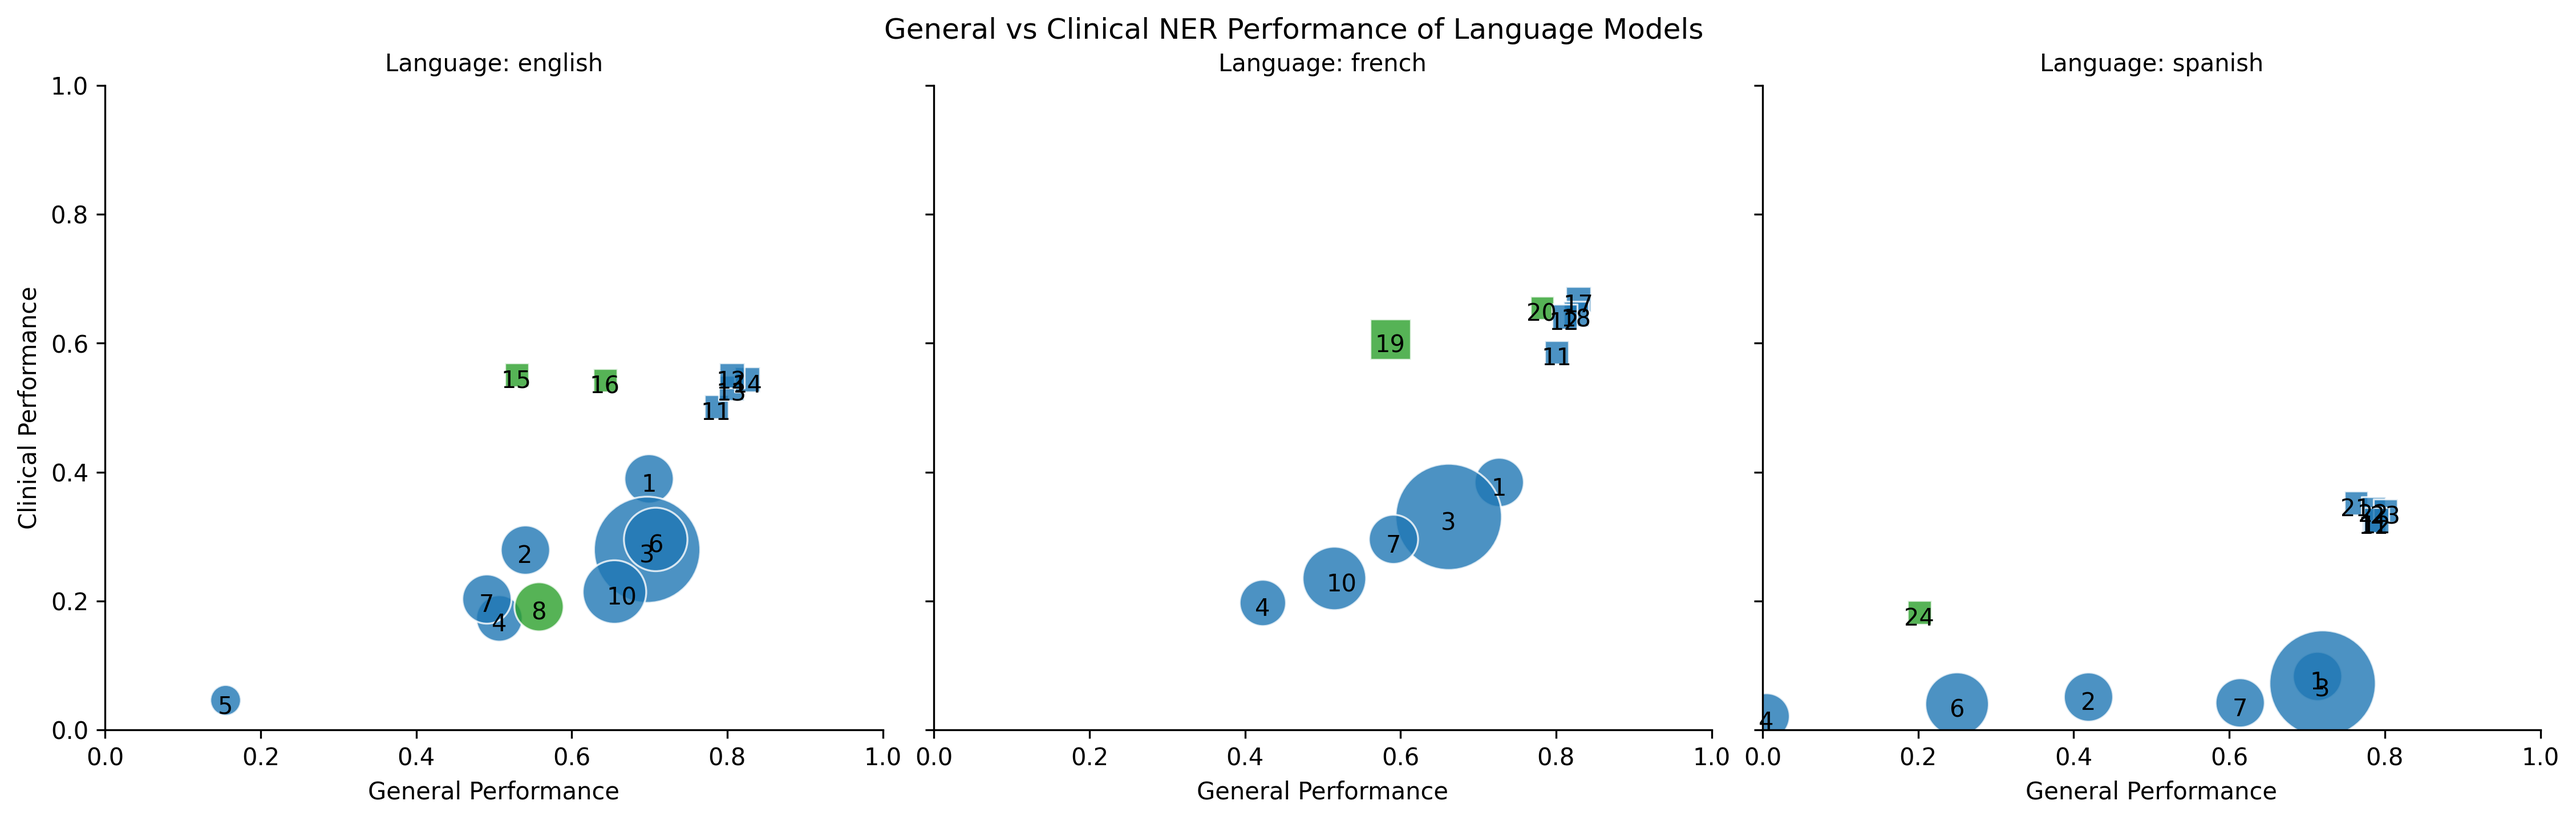
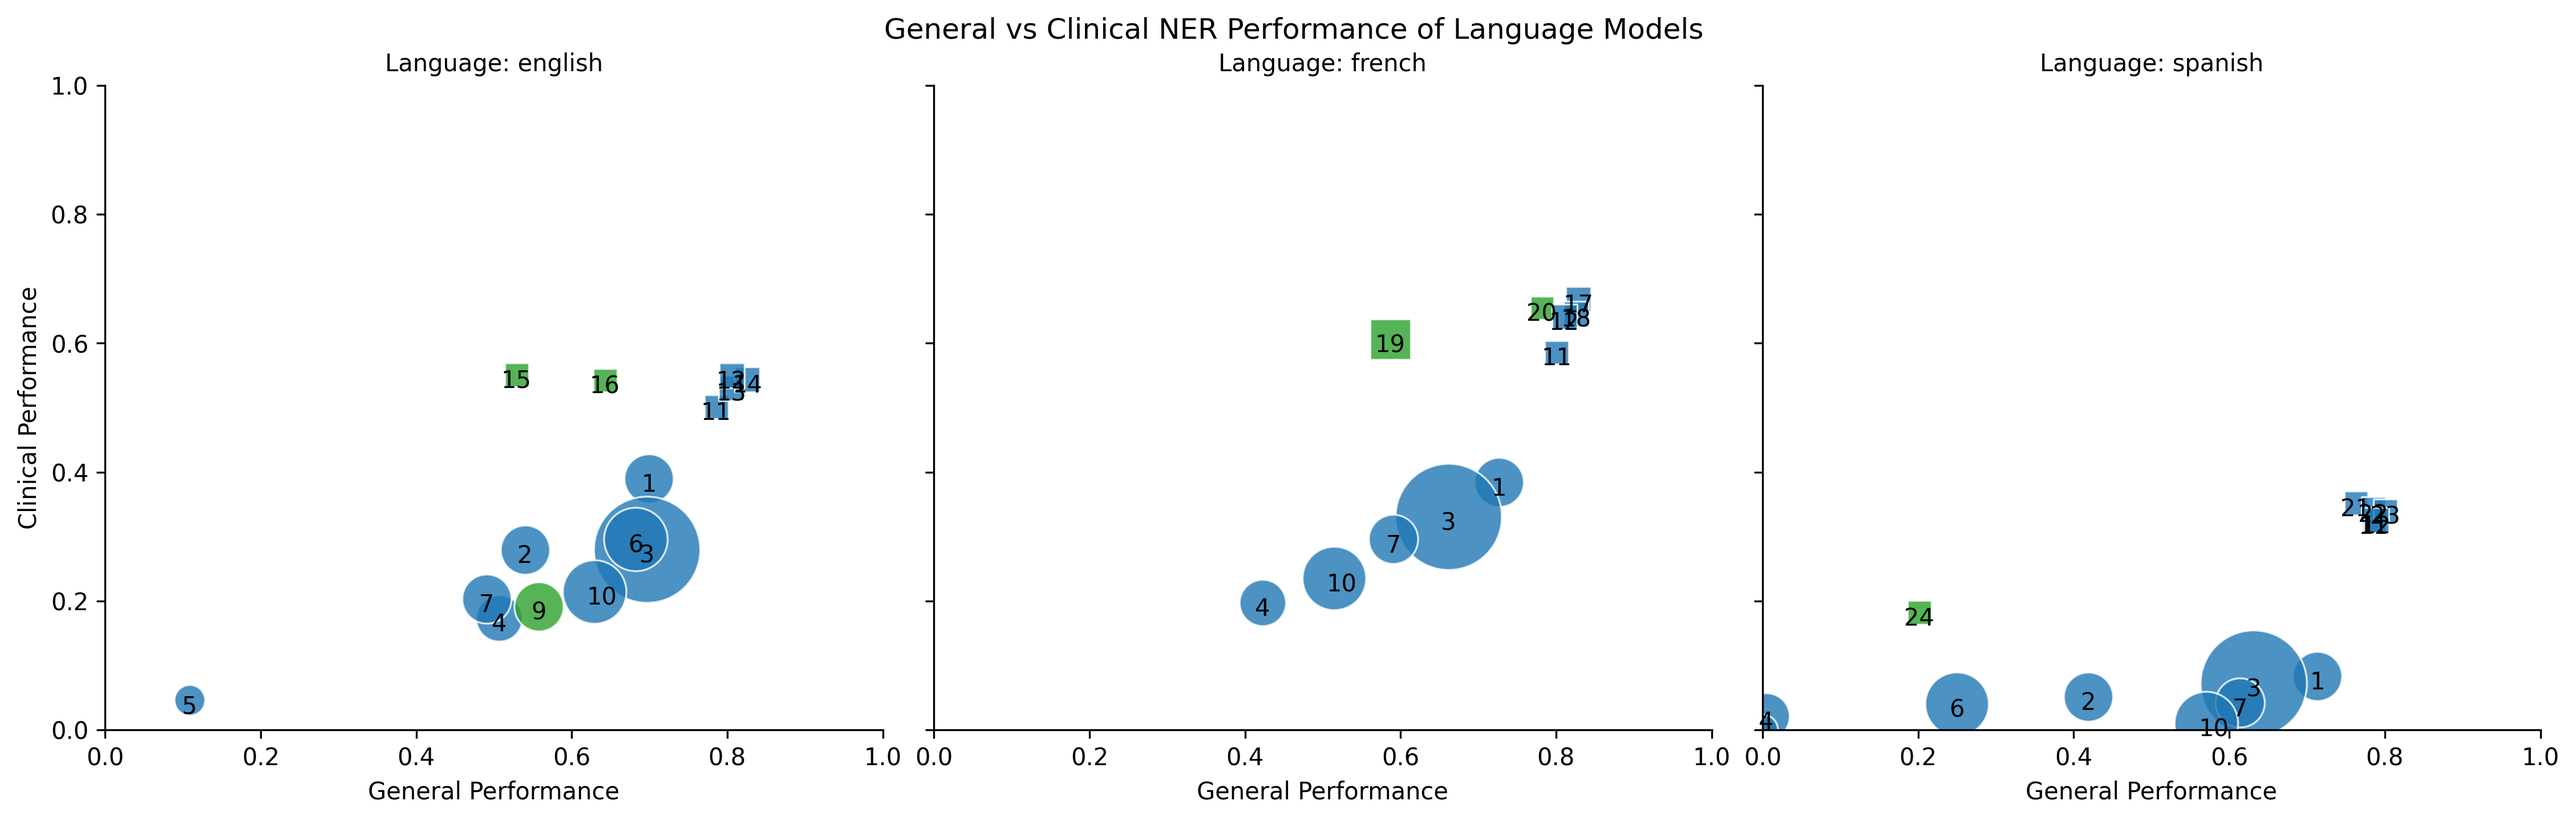
res

Changed region(s): [[0.843, 0.7495, 0.9367, 0.9056], [0.2186, 0.6246, 0.281, 0.7807], [0.0624, 0.8119, 0.0937, 0.8744]]

diff --git a/result_tabs_and_plots/results_table.tex b/result_tabs_and_plots/results_table.tex
@@ -5,14 +5,14 @@
 \midrule
 \multirow{10}{*}{\rotatebox[origin=c]{90}{Causal}} & 1- Mistral-7B & 0.754 & 0.645 & 0.488 & 0.291 & - & 0.727 & - & 0.59 & 0.229 & 0.333 & 0.72 & 0.707 & 0.083 & - \\
  & 2- BLOOM-7B1 & 0.524 & 0.557 & 0.279 & - & - & - & - & 0.32 & - & - & - & 0.419 & 0.051 & - \\
- & 3- Falcon-40B & 0.686 & 0.708 & 0.28 & 0.279 & - & 0.662 & - & 0.378 & - & 0.283 & 0.72 & - & 0.072 & - \\
+ & 3- Falcon-40B & 0.686 & 0.708 & 0.28 & 0.279 & - & 0.662 & - & 0.378 & - & 0.283 & 0.72 & 0.543 & 0.072 & - \\
  & 4- GPT-J-6B & 0.521 & 0.493 & 0.167 & 0.179 & - & 0.423 & - & 0.334 & 0.08 & 0.177 & 0.005 & - & 0.021 & - \\
- & 5- GPT2-XL & - & 0.155 & - & 0.046 & - & - & - & - & - & - & - & - & - & - \\
- & 6- Vicuna-13B & - & 0.708 & 0.355 & 0.236 & - & - & - & 0.399 & - & 0.326 & - & 0.25 & 0.04 & - \\
+ & 5- GPT2-XL & 0.063 & 0.155 & - & 0.046 & - & 0.0 & - & - & - & - & 0.0 & - & 0.0 & - \\
+ & 6- Vicuna-13B & 0.657 & 0.708 & 0.355 & 0.236 & - & - & - & 0.4 & - & 0.326 & - & 0.25 & 0.04 & - \\
  & 7- Vicuna-7B & 0.594 & 0.388 & 0.259 & 0.147 & - & 0.591 & - & 0.439 & 0.152 & 0.296 & 0.659 & 0.569 & 0.042 & - \\
- & 8- Medalpaca-7B & - & 0.558 & - & 0.191 & - & - & - & - & 0.161 & 0.224 & - & - & - & - \\
- & 9- BioMedLM & - & - & - & - & - & - & - & - & - & - & - & - & - & - \\
- & 10- Vigogne-13B & - & 0.655 & 0.252 & 0.176 & - & 0.515 & - & 0.464 & 0.099 & 0.142 & - & - & 0.01 & - \\
+ & 8- BioMedLM & - & 0.223 & - & - & - & - & - & - & - & - & - & - & - & - \\
+ & 9- Medalpaca-7B & - & 0.558 & - & 0.191 & - & - & - & - & 0.161 & 0.224 & - & - & - & - \\
+ & 10- Vigogne-13B & 0.593 & 0.666 & 0.252 & 0.176 & - & 0.515 & - & 0.464 & 0.099 & 0.142 & 0.58 & 0.561 & 0.01 & - \\
 \midrule
 \multirow{14}{*}{\rotatebox[origin=c]{90}{Masked}} & 11- mBERT & 0.768 & 0.804 & 0.624 & 0.378 & - & 0.801 & - & 0.741 & 0.588 & 0.428 & 0.812 & 0.76 & 0.324 & - \\
  & 12- XLM-RoBERTa-large & 0.786 & 0.826 & 0.637 & 0.462 & - & 0.811 & - & 0.762 & 0.629 & 0.531 & 0.797 & 0.781 & 0.325 & - \\
